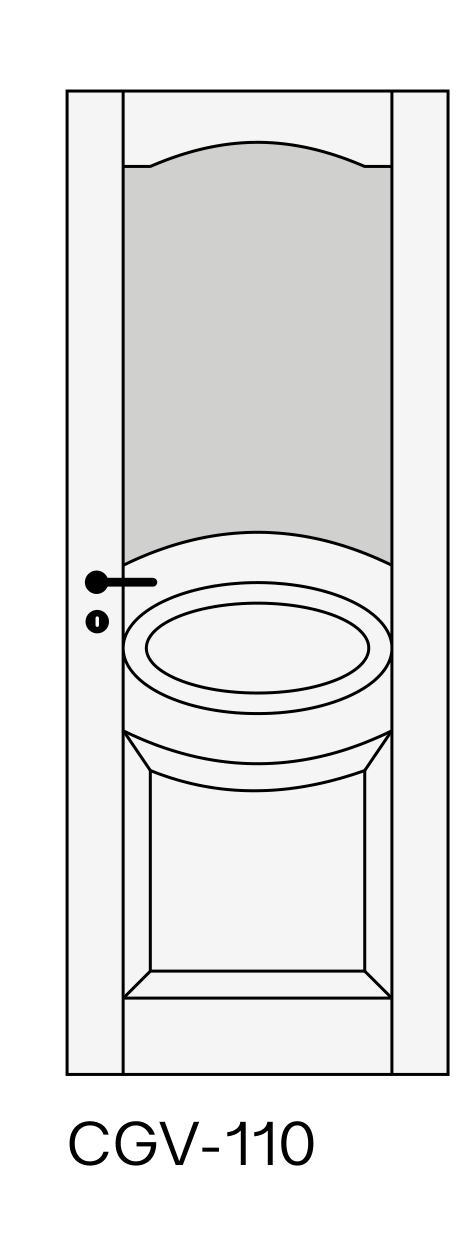
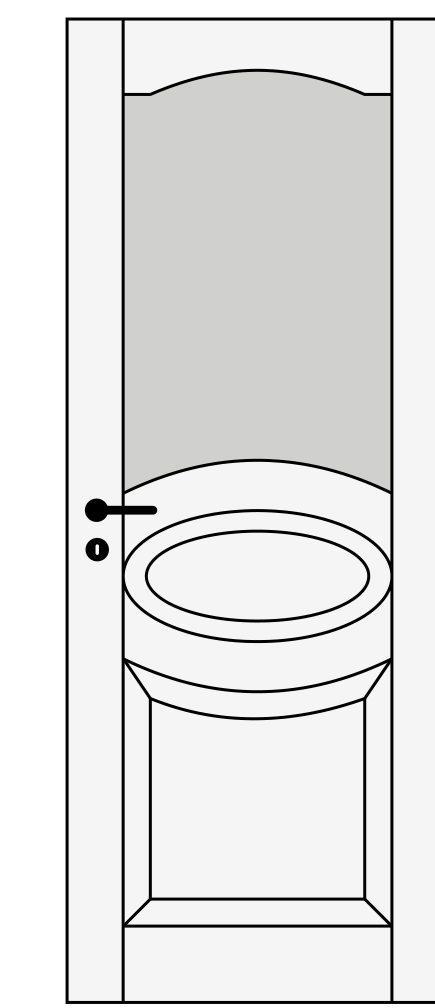
Final Dors crop tuning and door image replacements

Changed region(s): [[0.1195, 0.0, 1.0, 1.0]]

diff --git a/index.html b/index.html
@@ -194,7 +194,7 @@
       const div = document.createElement('article');
       div.className = 'card';
       const rel = row.image_path.replace(/^.*\/images\//, 'images/');
-      const imgSrc = `${rel}?v=20260422f`;
+      const imgSrc = `${rel}?v=20260422g`;
       div.innerHTML = `
         <div class="imgbox"><img loading="lazy" src="${imgSrc}" alt="${row.code}" /></div>
         <div class="meta">
